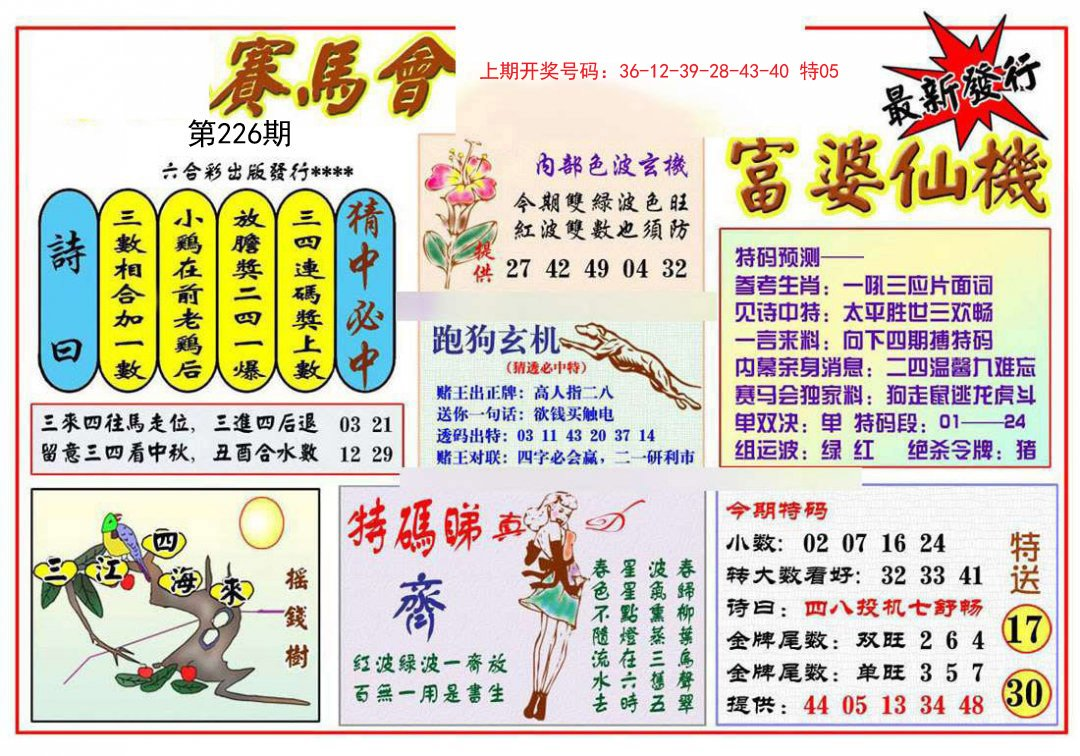
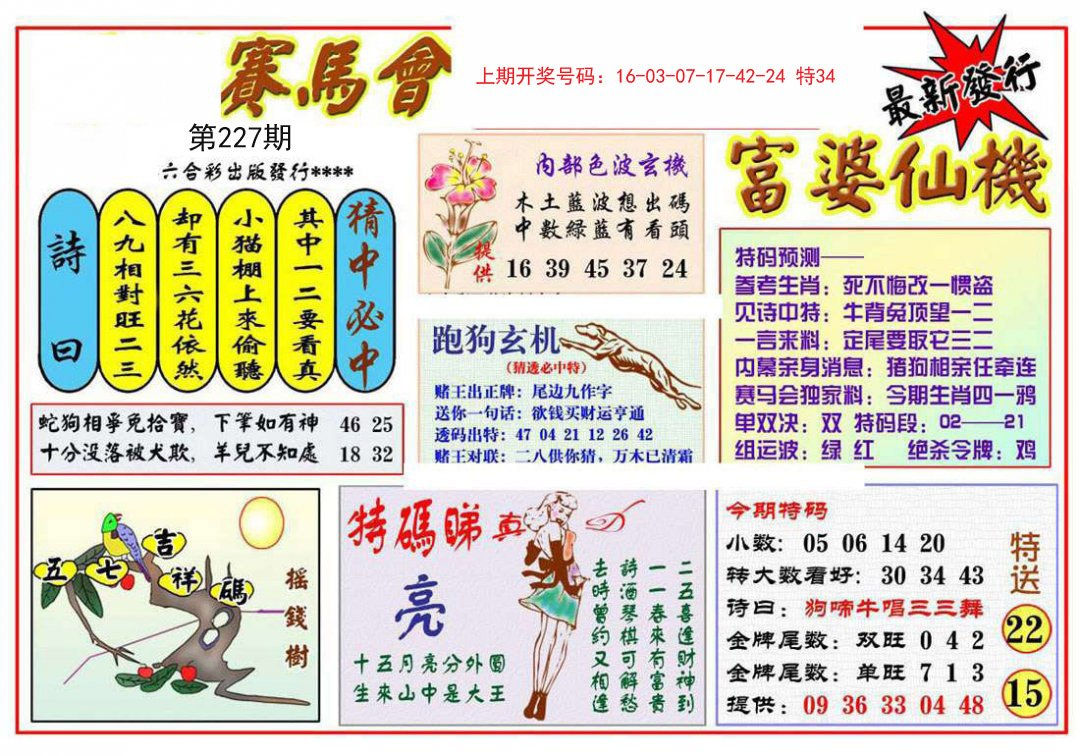
Update:  2024.08.14 01:20:34

diff --git a/Script/Src/xjw/波色.js b/Script/Src/xjw/波色.js
@@ -10,13 +10,30 @@ document.writeln("		");
 document.writeln("");
 
 
+
+document.writeln("");
 document.writeln("	<tr>");
 document.writeln("		<td class=\'center f11 black l150\' align=\'center\'>");
 document.writeln("	");
 document.writeln("");
 document.writeln("			<p>");
 document.writeln("	");
-document.writeln("		<span><font size=\'4\'>226期:<font color=\'#008000\'>【正版波色输尽光】</font><font color=\'#FF0000\'>开？00</font><font color=\'#008000\'><br>");
+document.writeln("		<span><font size=\'4\'>227期:<font color=\'#008000\'>【正版波色输尽光】</font><font color=\'#FF0000\'>开？00</font><font color=\'#008000\'><br>");
+document.writeln("		</font><font color=\'#FF00FF\'>今期买绿输尽光，单数马虎有玄机</td></tr>");
+document.writeln("");
+document.writeln("");
+document.writeln("");
+
+
+
+
+document.writeln("	<tr>");
+document.writeln("		<td class=\'center f11 black l150\' align=\'center\'>");
+document.writeln("	");
+document.writeln("");
+document.writeln("			<p>");
+document.writeln("	");
+document.writeln("		<span><font size=\'4\'>226期:<font color=\'#008000\'>【正版波色输尽光】</font><font color=\'#FF0000\'>开羊34</font><font color=\'#008000\'><br>");
 document.writeln("		</font><font color=\'#FF00FF\'>今期买蓝输尽光，双数鸡蛇有玄机</td></tr>");
 document.writeln("");
 document.writeln("");

diff --git a/Script/Src/xjw/猜特输尽光.js b/Script/Src/xjw/猜特输尽光.js
@@ -12,12 +12,28 @@ document.writeln("	");
 document.writeln("			");
 
 
+
+document.writeln("		");
+document.writeln("			<tr>");
+document.writeln("		<td class=\'center f11 black l150\' align=\'center\'>");
+document.writeln("	");
+document.writeln("		<p>");
+document.writeln("	");
+document.writeln("		<span><font size=\'4\'>227期:<font color=\'#008000\'>【正版猜特输尽光】</font><font color=\'#FF0000\'>开？00</font><font color=\'#008000\'><br>");
+document.writeln("		</font><font color=\'#FF00FF\'>今期鼠猪输尽光，一头三尾全不买。</td>");
+document.writeln("		</tr>");
+document.writeln("		");
+document.writeln("		");
+document.writeln("");
+
+
+
 document.writeln("	<tr>");
 document.writeln("		<td class=\'center f11 black l150\' align=\'center\'>");
 document.writeln("	");
 document.writeln("		<p>");
 document.writeln("	");
-document.writeln("		<span><font size=\'4\'>226期:<font color=\'#008000\'>【正版猜特输尽光】</font><font color=\'#FF0000\'>开？00</font><font color=\'#008000\'><br>");
+document.writeln("		<span><font size=\'4\'>226期:<font color=\'#008000\'>【正版猜特输尽光】</font><font color=\'#FF0000\'>开羊34</font><font color=\'#008000\'><br>");
 document.writeln("		</font><font color=\'#FF00FF\'>今期牛狗输尽光，二头七尾全不买。</td>");
 document.writeln("		</tr>");
 document.writeln("		");
